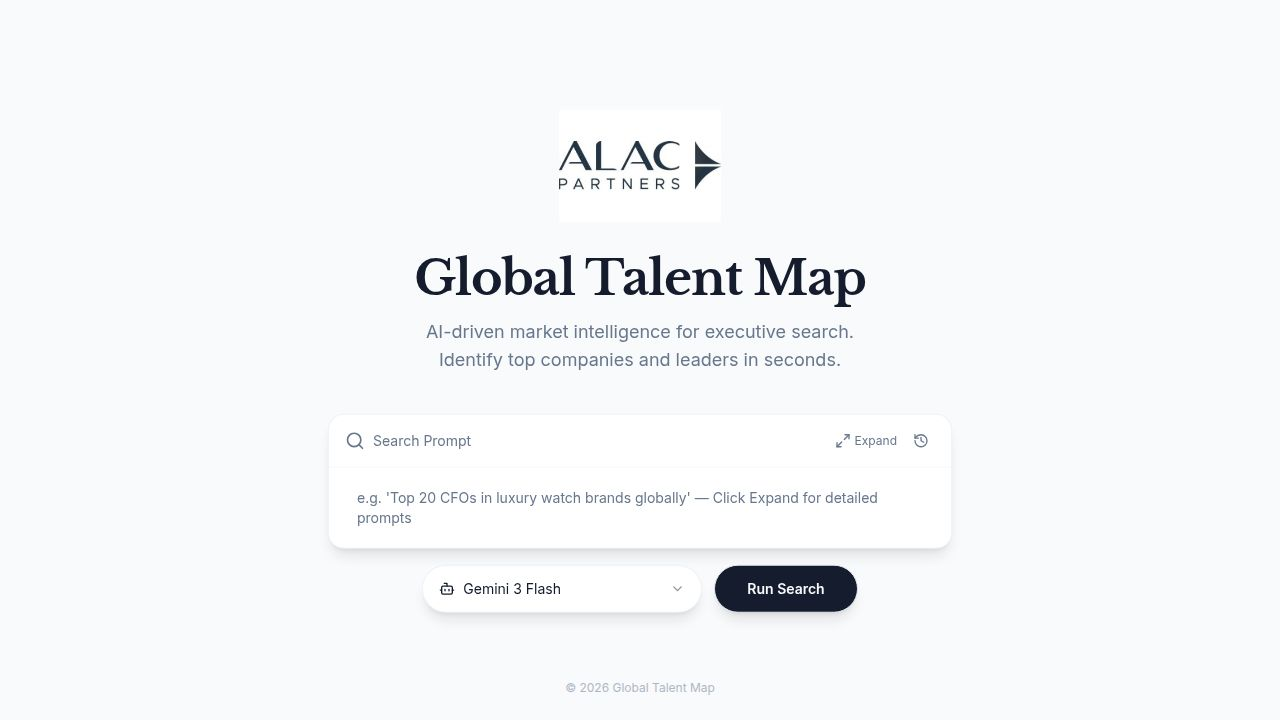
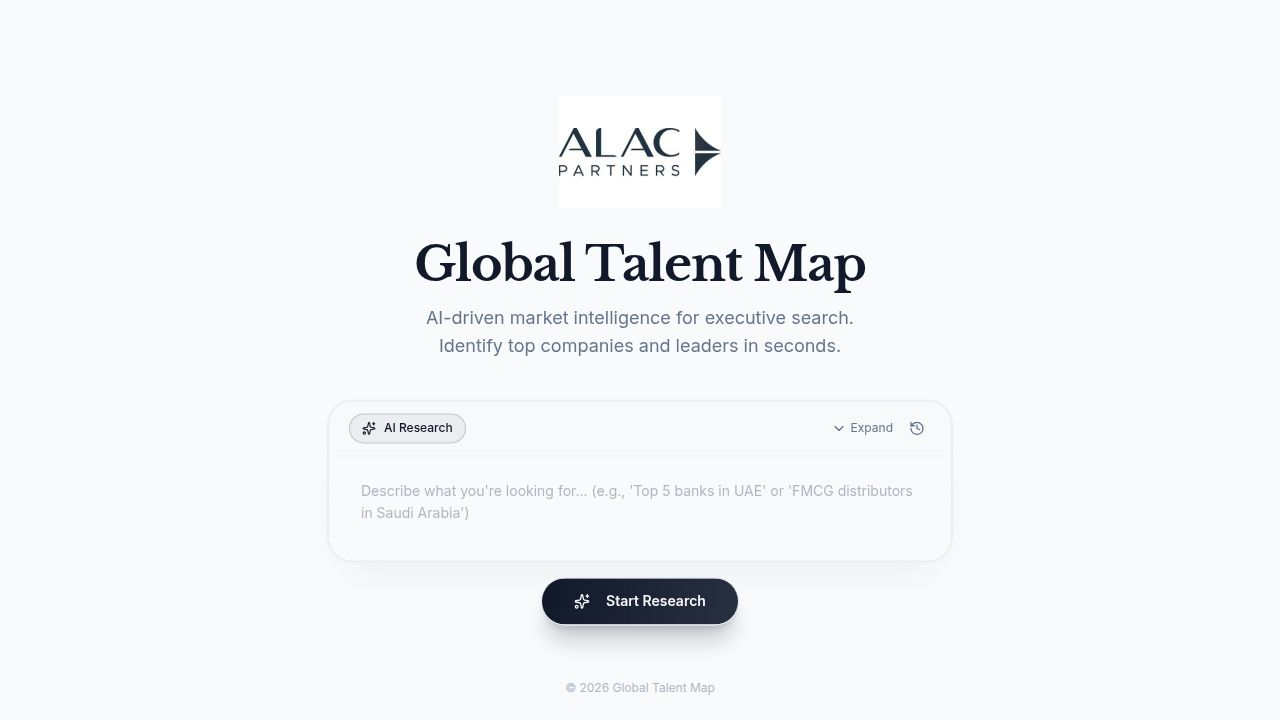
Update search functionality to use Tavily Research exclusively
Removes unused imports and LLM fallback options from the streaming search endpoint, simplifying the discovery process to use only Tavily Research.

Replit-Commit-Author: Agent
Replit-Commit-Session-Id: 928cdb99-c6f2-4ec0-9a63-45503a730fe4
Replit-Commit-Checkpoint-Type: intermediate_checkpoint
Replit-Commit-Event-Id: ea93f09c-3a96-48a1-9ced-580fdeb449f0
Replit-Commit-Screenshot-Url: https://storage.googleapis.com/screenshot-production-us-central1/9fca7580-c44b-4255-9049-a846123d9e2d/928cdb99-c6f2-4ec0-9a63-45503a730fe4/5nH9QgT
Replit-Helium-Checkpoint-Created: true

diff --git a/server/routes.ts b/server/routes.ts
@@ -4,12 +4,9 @@ import { storage } from "./storage";
 import { insertCompanySchema, insertExecutiveSchema, insertSearchQuerySchema, insertCareerHistorySchema, insertEducationSchema, insertRemunerationSchema } from "@shared/schema";
 import { 
   parseSearchQuery, 
-  discoverCompaniesStreaming,
   generateSearchUniqueKey
 } from "./services/discovery";
 import { 
-  discoverCompaniesWithRetrieval,
-  discoverCompaniesWithRetrievalSync,
   discoverWithTavilyResearch
 } from "./services/retrievalDiscovery";
 import { webSearchService } from "./services/webSearch";
@@ -565,8 +562,6 @@ Please provide a comprehensive business profile as JSON.`
   // Streaming search endpoint using Server-Sent Events
   app.get("/api/search/stream", async (req, res) => {
     const query = req.query.query as string;
-    const model = (req.query.model as string) || "anthropic/claude-sonnet-4";
-    const useTavilyResearch = req.query.research === 'true'; // New: Use Tavily Research API (no LLM layer)
     
     if (!query) {
       res.status(400).json({ error: "Search query is required" });
@@ -586,12 +581,12 @@ Please provide a comprehensive business profile as JSON.`
     };
 
     try {
-      console.log(`[Routes SSE] Starting streaming search: "${query}" with model: ${model}`);
+      console.log(`[Routes SSE] Starting streaming search: "${query}"`);
       
       sendEvent('status', { message: 'Starting search...', progress: 0 });
       
-      // Step 1: Parse the search query
-      const { criteria, interpretation } = await parseSearchQuery(query, model);
+      // Step 1: Parse the search query (simple heuristic, no LLM)
+      const { criteria, interpretation } = await parseSearchQuery(query);
       sendEvent('status', { message: 'Criteria parsed', progress: 10, interpretation });
 
       // Step 2: Generate unique key
@@ -615,94 +610,45 @@ Please provide a comprehensive business profile as JSON.`
       // Step 4: Clear previous results
       await storage.deleteCompaniesBySearchQuery(searchQuery.id);
 
-      // Step 5: Stream companies as they're discovered
-      // Options: 1) Tavily Research (no LLM), 2) Retrieval + LLM, 3) LLM-only
+      // Step 5: Stream companies using Tavily Research API (only option now - no LLM layer)
       let companyCount = 0;
-      const useRetrieval = webSearchService.isConfigured();
       
-      if (useTavilyResearch) {
-        console.log(`[Routes SSE] Using Tavily Research API (no LLM layer)`);
-      } else {
-        console.log(`[Routes SSE] Using ${useRetrieval ? 'retrieval-first' : 'LLM-only'} discovery`);
+      // Check if Tavily Research is configured
+      if (!webSearchService.isResearchConfigured()) {
+        sendEvent('error', { message: 'Tavily Research API is not configured. Please add TAVILY_API_KEY to your secrets.' });
+        res.end();
+        return;
       }
       
-      let webSearchFailed = false;
+      console.log(`[Routes SSE] Using Tavily Research API for: "${query}"`);
       
-      // Helper to process a discovery stream
-      // Returns { fallbackNeeded: boolean, completeSent: boolean }
-      const processDiscoveryStream = async (stream: AsyncGenerator<any, void, unknown>, isLlmOnlyFallback: boolean = false): Promise<{ fallbackNeeded: boolean, completeSent: boolean }> => {
-        let completeSent = false;
-        for await (const event of stream) {
-          if (event.type === 'company') {
-            companyCount++;
-            sendEvent('company', event.data);
-          } else if (event.type === 'executive') {
-            // New: Forward executive events from Tavily Research
-            sendEvent('executive', event.data);
-          } else if (event.type === 'source') {
-            sendEvent('source', event.data);
-          } else if (event.type === 'verification') {
-            sendEvent('verification', event.data);
-          } else if (event.type === 'status') {
-            sendEvent('status', event.data);
-          } else if (event.type === 'error') {
-            // Check if this is a web search failure - signal to fall back
-            // Only trigger fallback for web search specific errors, not general LLM errors
-            if (!isLlmOnlyFallback && event.data?.message?.includes('Web search failed')) {
-              return { fallbackNeeded: true, completeSent: false }; // Signal to fall back to LLM-only
-            }
-            sendEvent('error', event.data);
-          } else if (event.type === 'complete') {
-            // Update result count
-            await storage.updateSearchQueryResultCount(searchQuery.id, companyCount);
-            
-            // Mark as degraded if we fell back to LLM-only
-            const eventData = { ...event.data };
-            if (webSearchFailed || isLlmOnlyFallback) {
-              eventData.discoveryStatus = 'degraded';
-              eventData.degradationReasons = eventData.degradationReasons || [];
-              if (!eventData.degradationReasons.includes('Web search failed - used AI-only mode')) {
-                eventData.degradationReasons.push('Web search failed - used AI-only mode');
-              }
-            }
-            
-            sendEvent('complete', { 
-              ...eventData,
-              searchQueryId: searchQuery.id 
-            });
-            completeSent = true;
-          }
-        }
-        return { fallbackNeeded: false, completeSent };
-      };
+      // Process the discovery stream
+      const researchStream = discoverWithTavilyResearch(criteria, searchQuery.id, query);
       
-      // NEW: Use Tavily Research API (no LLM layer) if requested
-      if (useTavilyResearch && webSearchService.isResearchConfigured()) {
-        console.log(`[Routes SSE] Using Tavily Research for: "${query}"`);
-        const researchStream = discoverWithTavilyResearch(criteria, searchQuery.id, query);
-        await processDiscoveryStream(researchStream, false);
-      }
-      // Run retrieval-first discovery (Search + LLM)
-      else if (useRetrieval) {
-        const retrievalStream = discoverCompaniesWithRetrieval(criteria, searchQuery.id, model, query);
-        const result = await processDiscoveryStream(retrievalStream, false);
-        webSearchFailed = result.fallbackNeeded;
-        
-        // If web search failed, fall back to LLM-only
-        if (webSearchFailed) {
-          console.log(`[Routes SSE] Web search failed, falling back to LLM-only discovery`);
-          sendEvent('status', { message: 'Web search unavailable, using AI-only mode...', progress: 10, warning: true });
-          
-          const llmOnlyStream = discoverCompaniesStreaming(criteria, searchQuery.id, model, query);
-          await processDiscoveryStream(llmOnlyStream, true);
+      for await (const event of researchStream) {
+        if (event.type === 'company') {
+          companyCount++;
+          sendEvent('company', event.data);
+        } else if (event.type === 'executive') {
+          sendEvent('executive', event.data);
+        } else if (event.type === 'source') {
+          sendEvent('source', event.data);
+        } else if (event.type === 'verification') {
+          sendEvent('verification', event.data);
+        } else if (event.type === 'status') {
+          sendEvent('status', event.data);
+        } else if (event.type === 'error') {
+          sendEvent('error', event.data);
+        } else if (event.type === 'complete') {
+          await storage.updateSearchQueryResultCount(searchQuery.id, companyCount);
+          sendEvent('complete', { 
+            ...event.data,
+            searchQueryId: searchQuery.id 
+          });
         }
-      } else {
-        // No web search configured, use LLM-only directly
-        const llmOnlyStream = discoverCompaniesStreaming(criteria, searchQuery.id, model, query);
-        await processDiscoveryStream(llmOnlyStream, false);
       }
 
-      console.log(`[Routes SSE] Streaming complete: ${companyCount} companies${webSearchFailed ? ' (LLM-only fallback)' : ''}`);
+      console.log(`[Routes SSE] Streaming complete: ${companyCount} companies`);
       res.end();
       
     } catch (error: any) {
